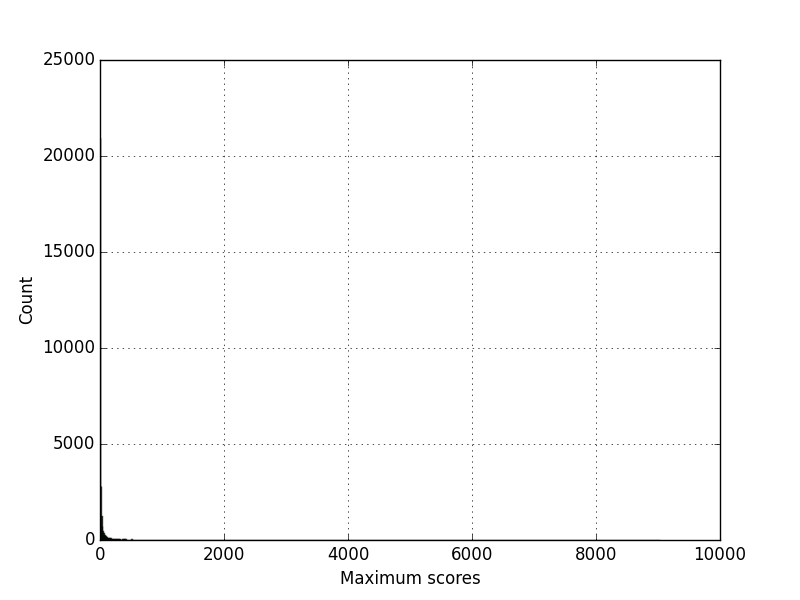
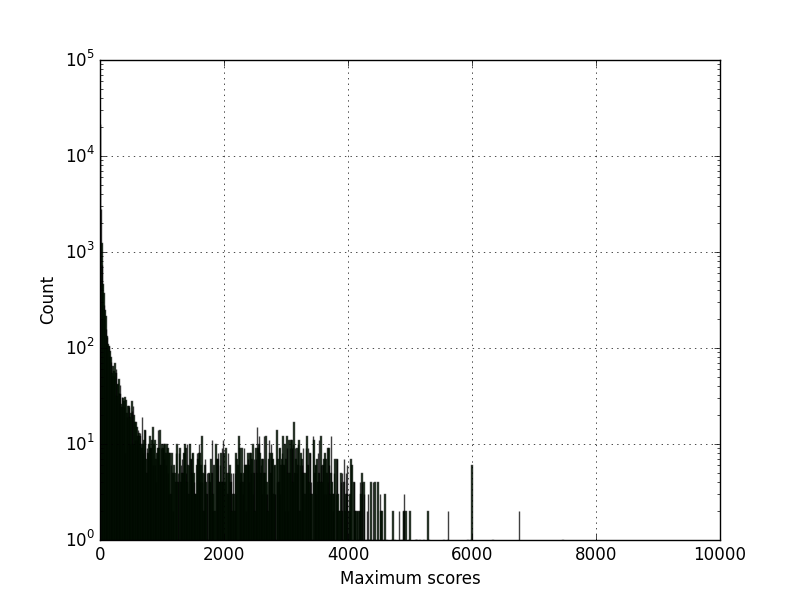
Plots Updated

diff --git a/original_author_distribution.py b/original_author_distribution.py
@@ -14,14 +14,14 @@ with open('final_filtered.csv') as f:
         score = int(score)
         line = json.loads(json_info)
         #print line        
-        if len(line) > 0:
+        if len(line) >= 2:
             line.sort(key=lambda s: s[2])
             original_author = line[0][0]
             #print original_author
             lengths.append(len([item for item in line if item[0] == original_author]))
     #print lengths
     c = Counter(lengths)
-
+    c[1] = 0
     x = list(c.elements())
     #print x
     #bins = [i * 1 for i in range(10)]

diff --git a/max_score_distrib.py b/max_score_distrib.py
@@ -23,7 +23,7 @@ with open('final_filtered.csv') as f:
     #bins = [i * 1 for i in range(10)]
 
     #pyplot.hist(x, bins=bins, facecolor='green', alpha=0.75)
-    pyplot.hist(x, bins=np.arange(min(x),max(x)+10,10), facecolor='green', alpha=0.75)
+    pyplot.hist(x, bins=np.arange(min(x),max(x)+10,10), facecolor='green', alpha=0.75, log=True)
     pyplot.xlabel('Maximum scores')
     pyplot.ylabel('Count')
     # pyplot.suptitle(r'pvalue')
